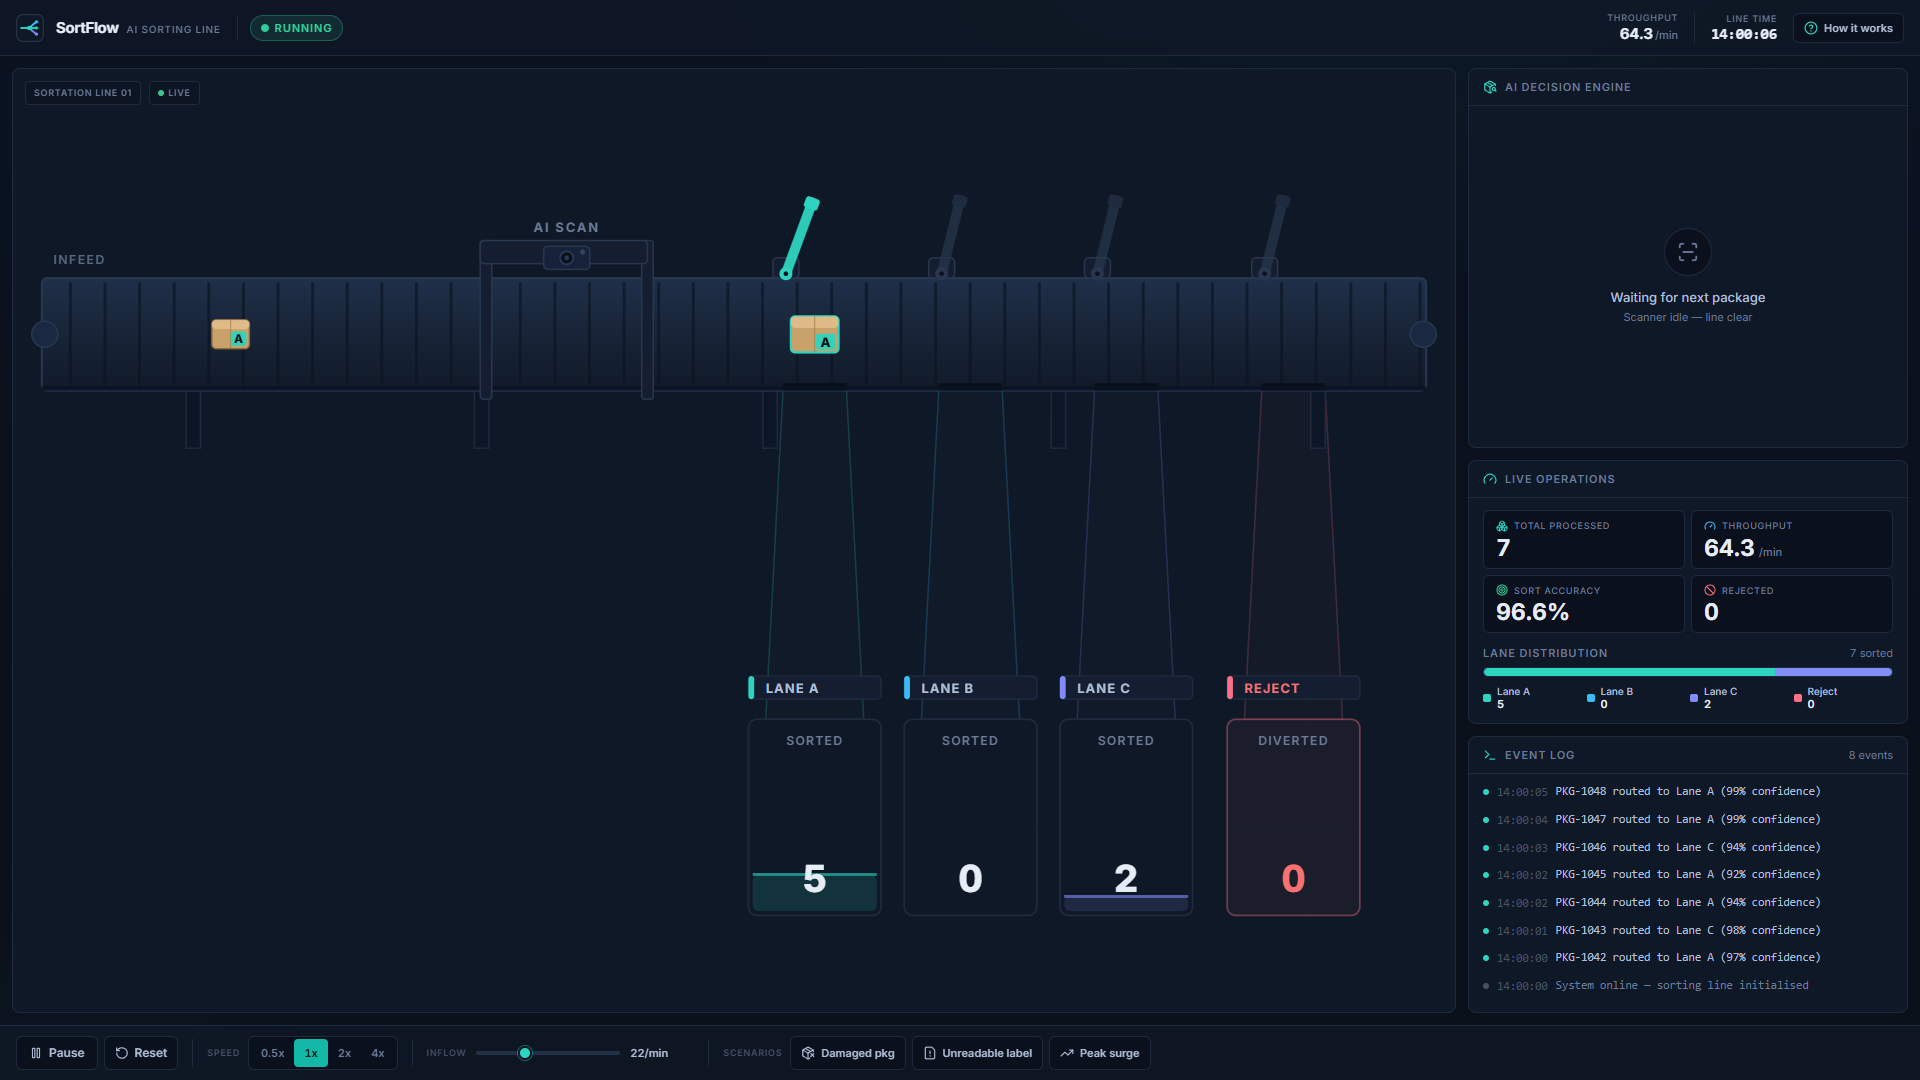
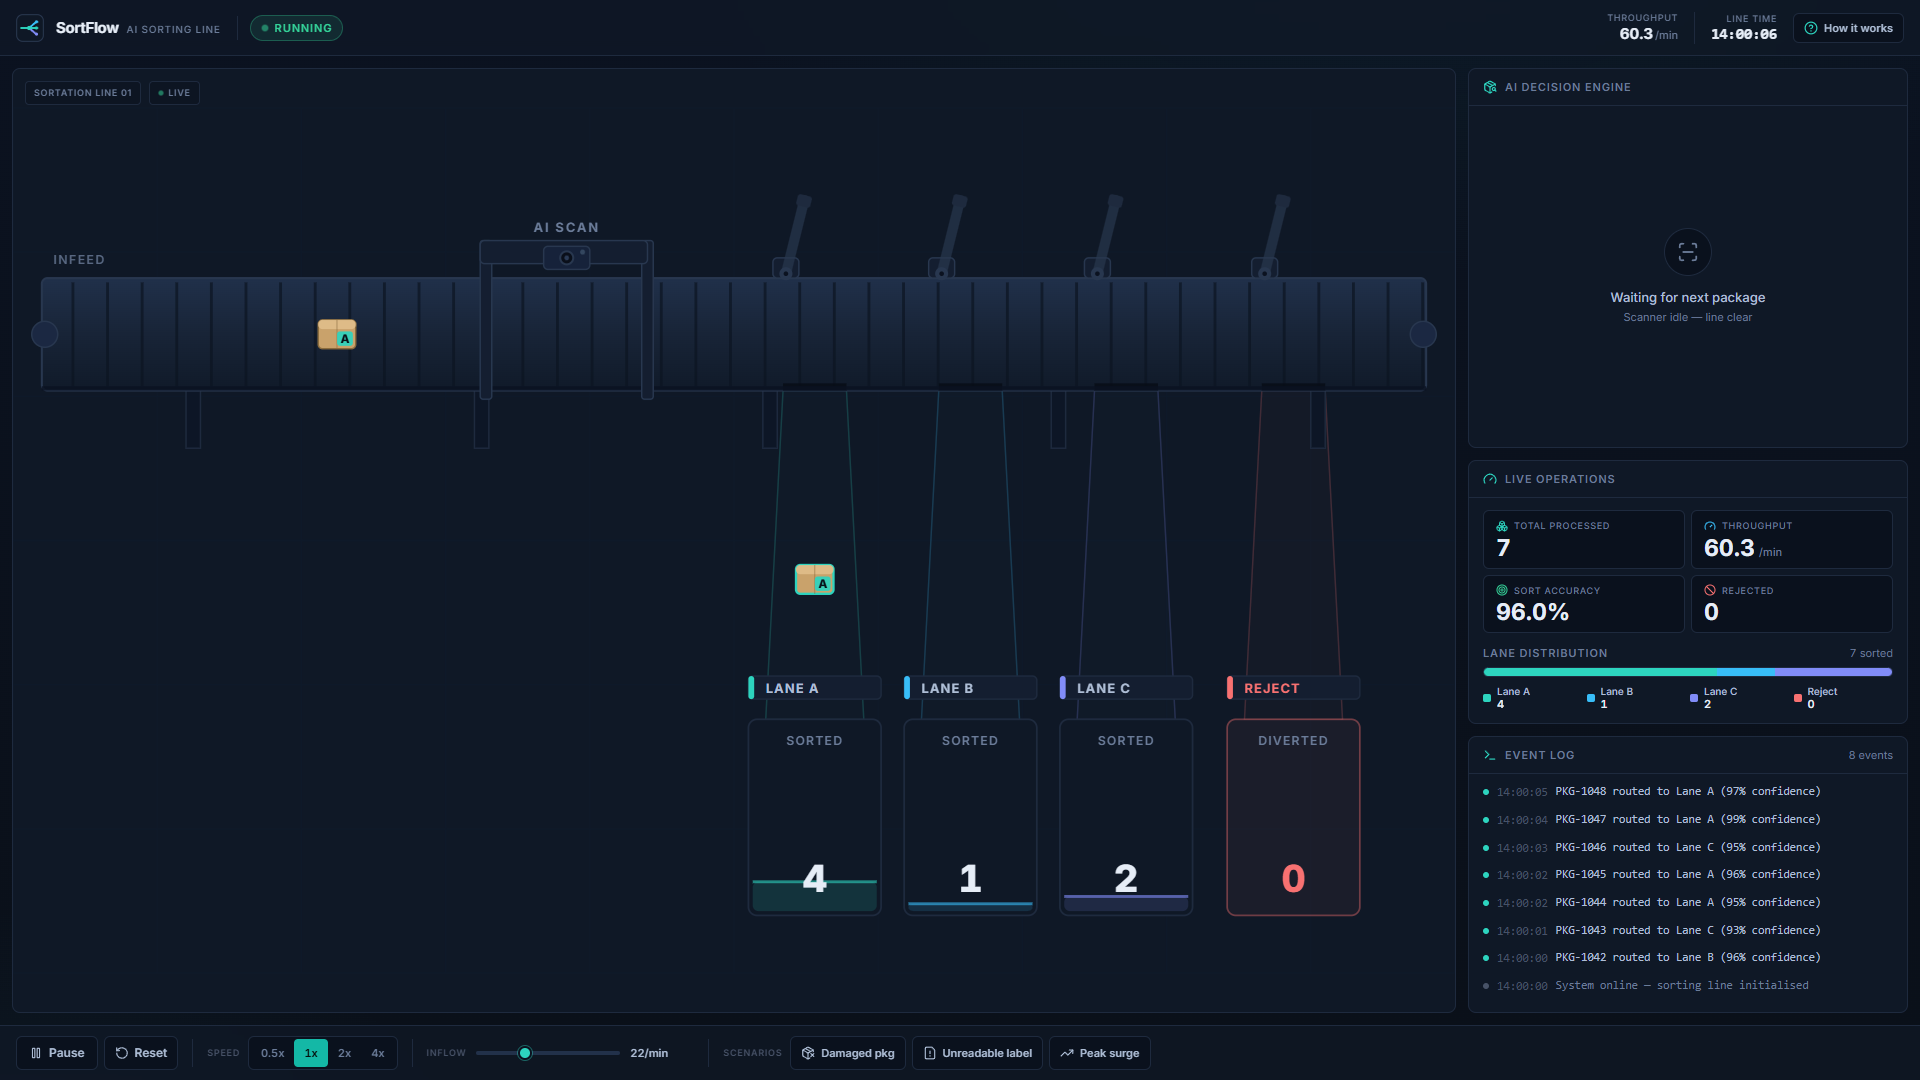
Optimize rendering and enhance accessibility
Extract static scene geometry into module-level constants to prevent React from re-allocating ~40 unchanged nodes each frame. Add keyboard focus trap and restoration to HowItWorksModal for better accessibility. Standardize reject color to #F87171 across palette, Tailwind config, and scene. Optimize Engine's sort comparator to use stable instance method, avoiding closure allocation. Remove unused exports (formatClock), interfaces (EngineConfig), and colors (brand). Adjust weight floor from 0.3 to 0.05 to ensure weight-mismatch rule triggers correctly. Update component screenshots.

diff --git a/src/components/ConveyorScene.tsx b/src/components/ConveyorScene.tsx
@@ -35,11 +35,10 @@ function PackageSprite({ pkg }: { pkg: Package }) {
   const y = pkg.y - h / 2
   const zoneColor = ROUTE_COLOR[pkg.zone]
   const decided = pkg.route !== null
-  const rejected = pkg.route === 'REJECT'
   const settling = pkg.phase === 'settled'
   const opacity = settling ? Math.max(0, pkg.settleMs / SETTLE_MS) : 1
 
-  const edge = rejected ? COLORS.danger : decided ? ROUTE_COLOR[pkg.route as Route] : COLORS.boxEdge
+  const edge = decided ? ROUTE_COLOR[pkg.route as Route] : COLORS.boxEdge
   const chipW = Math.min(14, w * 0.42)
   const chipH = Math.min(11, h * 0.5)
 
@@ -139,8 +138,8 @@ function Bin({ route, count }: { route: Route; count: number }) {
         width={bw}
         height={height}
         rx={6}
-        fill={isReject ? 'rgba(251,113,133,0.05)' : COLORS.surface}
-        stroke={isReject ? 'rgba(251,113,133,0.4)' : COLORS.line}
+        fill={isReject ? 'rgba(248,113,113,0.05)' : COLORS.surface}
+        stroke={isReject ? 'rgba(248,113,113,0.4)' : COLORS.line}
         strokeWidth={1.2}
       />
       {/* fill level */}
@@ -214,6 +213,58 @@ function DiverterArm({ route, swing }: { route: Route; swing: number }) {
   )
 }
 
+// Fully-static scene geometry, built once at module load. ConveyorScene
+// re-renders every frame; referencing these stable elements lets React skip
+// re-allocating and re-diffing ~40 unchanging nodes each frame.
+const BACKDROP_GRID = (
+  <g opacity={0.5}>
+    {Array.from({ length: 11 }, (_, i) => (
+      <line key={`gx${i}`} x1={i * 100} y1={0} x2={i * 100} y2={VIEW.H} stroke="#0f1a2b" strokeWidth={1} />
+    ))}
+    {Array.from({ length: 7 }, (_, i) => (
+      <line key={`gy${i}`} x1={0} y1={i * 100} x2={VIEW.W} y2={i * 100} stroke="#0f1a2b" strokeWidth={1} />
+    ))}
+  </g>
+)
+
+const CHUTES = (
+  <>
+    {ROUTES.map((r) => {
+      const cx = GATE[r]
+      const color = ROUTE_COLOR[r]
+      return (
+        <g key={`chute${r}`} opacity={0.5}>
+          <path
+            d={`M ${cx - 22} ${BELT.bottom} L ${cx + 22} ${BELT.bottom} L ${cx + 34} ${BIN.top} L ${cx - 34} ${BIN.top} Z`}
+            fill={r === 'REJECT' ? 'rgba(248,113,113,0.04)' : 'rgba(148,180,220,0.02)'}
+            stroke={color}
+            strokeOpacity={0.18}
+            strokeWidth={1}
+          />
+          <line x1={cx - 22} y1={BELT.bottom} x2={cx - 34} y2={BIN.top} stroke={color} strokeOpacity={0.28} strokeWidth={1} />
+          <line x1={cx + 22} y1={BELT.bottom} x2={cx + 34} y2={BIN.top} stroke={color} strokeOpacity={0.28} strokeWidth={1} />
+        </g>
+      )
+    })}
+  </>
+)
+
+const BELT_LEGS = (
+  <>
+    {[120, 320, 520, 720, 900].map((lx) => (
+      <rect key={`leg${lx}`} x={lx} y={BELT.bottom} width={10} height={40} fill="#0d1626" stroke={COLORS.line} />
+    ))}
+  </>
+)
+
+const DIVERT_SLOTS = (
+  <>
+    {ROUTES.map((r) => (
+      <rect key={`slot${r}`} x={GATE[r] - 22} y={BELT.bottom - 5} width={44} height={5} fill="#070d16" opacity={0.85} />
+    ))}
+  </>
+)
+
 function ConveyorSceneImpl({ engine, reducedMotion }: Props) {
   const packages = engine.packages
   const scanning = engine.isScanning
@@ -250,44 +301,19 @@ function ConveyorSceneImpl({ engine, reducedMotion }: Props) {
         </clipPath>
       </defs>
 
-      {/* faint backdrop grid */}
-      <g opacity={0.5}>
-        {Array.from({ length: 11 }, (_, i) => (
-          <line key={`gx${i}`} x1={i * 100} y1={0} x2={i * 100} y2={VIEW.H} stroke="#0f1a2b" strokeWidth={1} />
-        ))}
-        {Array.from({ length: 7 }, (_, i) => (
-          <line key={`gy${i}`} x1={0} y1={i * 100} x2={VIEW.W} y2={i * 100} stroke="#0f1a2b" strokeWidth={1} />
-        ))}
-      </g>
+      {/* faint backdrop grid (static) */}
+      {BACKDROP_GRID}
 
-      {/* chutes from belt down to bins */}
-      {ROUTES.map((r) => {
-        const cx = GATE[r]
-        const color = ROUTE_COLOR[r]
-        return (
-          <g key={`chute${r}`} opacity={0.5}>
-            <path
-              d={`M ${cx - 22} ${BELT.bottom} L ${cx + 22} ${BELT.bottom} L ${cx + 34} ${BIN.top} L ${cx - 34} ${BIN.top} Z`}
-              fill={r === 'REJECT' ? 'rgba(251,113,133,0.04)' : 'rgba(148,180,220,0.02)'}
-              stroke={color}
-              strokeOpacity={0.18}
-              strokeWidth={1}
-            />
-            <line x1={cx - 22} y1={BELT.bottom} x2={cx - 34} y2={BIN.top} stroke={color} strokeOpacity={0.28} strokeWidth={1} />
-            <line x1={cx + 22} y1={BELT.bottom} x2={cx + 34} y2={BIN.top} stroke={color} strokeOpacity={0.28} strokeWidth={1} />
-          </g>
-        )
-      })}
+      {/* chutes from belt down to bins (static) */}
+      {CHUTES}
 
       {/* bins */}
       {ROUTES.map((r) => (
         <Bin key={`bin${r}`} route={r} count={engine.stats.lanes[r]} />
       ))}
 
-      {/* belt legs */}
-      {[120, 320, 520, 720, 900].map((lx) => (
-        <rect key={`leg${lx}`} x={lx} y={BELT.bottom} width={10} height={40} fill="#0d1626" stroke={COLORS.line} />
-      ))}
+      {/* belt legs (static) */}
+      {BELT_LEGS}
 
       {/* belt surface */}
       <rect
@@ -323,18 +349,8 @@ function ConveyorSceneImpl({ engine, reducedMotion }: Props) {
           )}
         </g>
       </g>
-      {/* belt divert slots at each gate */}
-      {ROUTES.map((r) => (
-        <rect
-          key={`slot${r}`}
-          x={GATE[r] - 22}
-          y={BELT.bottom - 5}
-          width={44}
-          height={5}
-          fill="#070d16"
-          opacity={0.85}
-        />
-      ))}
+      {/* belt divert slots at each gate (static) */}
+      {DIVERT_SLOTS}
       {/* belt front rail */}
       <rect x={BELT.left} y={BELT.bottom - 3} width={BELT.right - BELT.left} height={3} fill="#0a1220" opacity={0.8} />
       {/* rollers */}

diff --git a/src/components/HowItWorksModal.tsx b/src/components/HowItWorksModal.tsx
@@ -86,21 +86,51 @@ const STEPS: Step[] = [
 
 export function HowItWorksModal({ open, onClose }: Props) {
   const closeRef = useRef<HTMLButtonElement>(null)
+  const panelRef = useRef<HTMLDivElement>(null)
+  // Read the latest onClose from a ref so the effect below depends only on
+  // `open` — otherwise it would tear down/re-run every animation frame (App
+  // re-renders each frame while the line runs) and steal focus repeatedly.
+  const onCloseRef = useRef(onClose)
+  onCloseRef.current = onClose
 
   useEffect(() => {
     if (!open) return
+    const opener = document.activeElement as HTMLElement | null
+
     const onKey = (e: KeyboardEvent) => {
-      if (e.key === 'Escape') onClose()
+      if (e.key === 'Escape') {
+        onCloseRef.current()
+        return
+      }
+      if (e.key !== 'Tab' || !panelRef.current) return
+      // Trap focus within the dialog
+      const nodes = panelRef.current.querySelectorAll<HTMLElement>(
+        'button, [href], input, select, textarea, [tabindex]:not([tabindex="-1"])',
+      )
+      if (nodes.length === 0) return
+      const first = nodes[0]
+      const last = nodes[nodes.length - 1]
+      if (e.shiftKey && document.activeElement === first) {
+        e.preventDefault()
+        last.focus()
+      } else if (!e.shiftKey && document.activeElement === last) {
+        e.preventDefault()
+        first.focus()
+      }
     }
+
     window.addEventListener('keydown', onKey)
     closeRef.current?.focus()
-    const prev = document.body.style.overflow
+    const prevOverflow = document.body.style.overflow
     document.body.style.overflow = 'hidden'
+
     return () => {
       window.removeEventListener('keydown', onKey)
-      document.body.style.overflow = prev
+      document.body.style.overflow = prevOverflow
+      // Return focus to the control that opened the dialog
+      opener?.focus?.()
     }
-  }, [open, onClose])
+  }, [open])
 
   if (!open) return null
 
@@ -113,10 +143,13 @@ export function HowItWorksModal({ open, onClose }: Props) {
     >
       <div
         className="absolute inset-0 bg-base/80 backdrop-blur-sm animate-fade-in"
-        onClick={onClose}
+        onClick={() => onCloseRef.current()}
         aria-hidden="true"
       />
-      <div className="relative z-10 w-full max-w-2xl animate-scale-in rounded-xl border border-line-strong bg-surface shadow-2xl">
+      <div
+        ref={panelRef}
+        className="relative z-10 w-full max-w-2xl animate-scale-in rounded-xl border border-line-strong bg-surface shadow-2xl"
+      >
         <div className="flex items-start justify-between border-b border-line px-5 py-4">
           <div>
             <h2 id="hiw-title" className="text-base font-bold text-ink">

diff --git a/src/sim/engine.ts b/src/sim/engine.ts
@@ -100,7 +100,7 @@ function pad2(n: number): string {
 }
 
 /** Format simulated elapsed ms as HH:MM:SS wall-clock. */
-export function formatClock(simMs: number): string {
+function formatClock(simMs: number): string {
   const total = Math.floor(BASE_CLOCK_SECONDS + simMs / 1000)
   const h = Math.floor(total / 3600) % 24
   const m = Math.floor(total / 60) % 60
@@ -237,6 +237,9 @@ export class Engine {
   private readonly forcedQueue: Scenario[] = []
   private readonly procTimes: number[] = []
   private readonly order: number[] = []
+  /** Stable comparator so moveAll's per-frame sort allocates no closure. */
+  private readonly byXDesc = (a: number, b: number): number =>
+    this.packages[b].x - this.packages[a].x
 
   constructor() {
     for (let i = 0; i < POOL_SIZE; i++) {
@@ -434,7 +437,7 @@ export class Engine {
     for (let i = 0; i < this.packages.length; i++) {
       if (this.packages[i].active) order.push(i)
     }
-    order.sort((a, b) => this.packages[b].x - this.packages[a].x)
+    order.sort(this.byXDesc)
 
     let aheadX = Infinity // nearest belt-lane package ahead of the current one
     let minBeltX = Infinity
@@ -695,7 +698,9 @@ export class Engine {
     p.zone = zone
     p.condition = condition
     p.labelReadable = labelReadable
-    p.weight = Math.max(0.3, weight)
+    // Floor kept below S's tolerance bound (0.5 * 0.6 = 0.3) so an organically
+    // generated ultra-light package still trips the weight-mismatch rule.
+    p.weight = Math.max(0.05, weight)
     p.phase = 'belt'
     p.x = x
     p.y = BELT.center

diff --git a/src/sim/types.ts b/src/sim/types.ts
@@ -98,9 +98,3 @@ export interface LogEntry {
 }
 
 export type Scenario = 'damaged' | 'unreadable'
-
-export interface EngineConfig {
-  running: boolean
-  speed: number // 0.5 | 1 | 2 | 4
-  spawnRate: number // packages per minute
-}

diff --git a/src/lib/palette.ts b/src/lib/palette.ts
@@ -8,7 +8,8 @@ export const ROUTE_COLOR: Record<Route, string> = {
   A: '#2DD4BF',
   B: '#38BDF8',
   C: '#818CF8',
-  REJECT: '#FB7185',
+  // Reject shares the single semantic danger red used everywhere else.
+  REJECT: '#F87171',
 }
 
 export const ROUTE_LABEL: Record<Route, string> = {
@@ -24,7 +25,6 @@ export const COLORS = {
   surfaceRaised: '#141E30',
   line: '#1E2A3E',
   lineStrong: '#28374F',
-  brand: '#14B8A6',
   brandBright: '#2DD4BF',
   healthy: '#34D399',
   warn: '#FBBF24',

diff --git a/tailwind.config.js b/tailwind.config.js
@@ -30,7 +30,7 @@ export default {
           a: '#2DD4BF',
           b: '#38BDF8',
           c: '#818CF8',
-          reject: '#FB7185',
+          reject: '#F87171',
         },
         // Text ramp
         ink: {